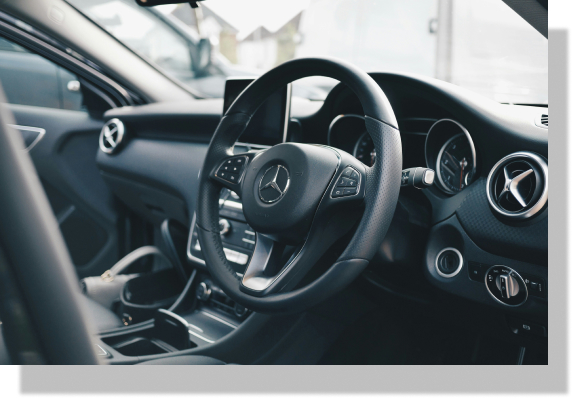
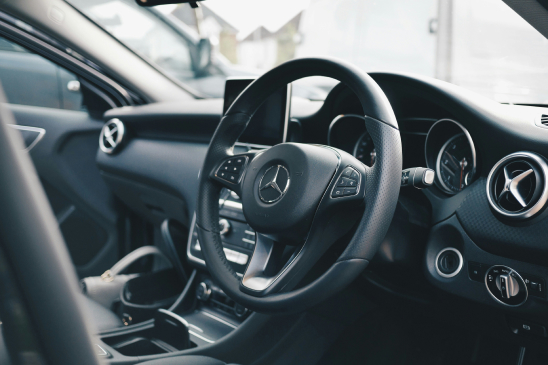
apresentation stylesheet

diff --git a/assets/style.css b/assets/style.css
@@ -203,6 +203,7 @@ a {
     font-size: 3.6rem;
     font-weight: 400;
     color: var(--alternative-color-7);
+    margin: 0 0 3.9rem 0;
 }
 
 .container-content-services {
@@ -250,6 +251,77 @@ a {
 
 .content-services p b {
     font-weight: 600;
+}
+
+/*Promotion section stylesheet*/
+
+.promotion-container {
+    display: grid;
+    grid-template-columns: 1fr 1fr;
+    grid-template-rows: repeat(3, auto);
+    padding: 9rem 11.5rem 6.6rem 11.5rem;
+    height: 66rem;
+    width: 100%;
+    background-color: var(--primary-color-1);
+}
+
+.promotion-container h1 {
+    font-family: var(--text-font);
+    font-size: 3.6rem;
+    font-weight: 400;
+    color: var(--primary-color-4);
+    position: relative;
+    grid-column: 1/2;
+    margin: 0 0 3.9rem 0;
+}
+
+.promotion-container h1::after {
+    content: '';
+    height: 0.3rem;
+    width: 2rem;
+    background: var(--alternative-gradient);
+    margin-left: 0.6rem;
+    position: absolute;
+    top: 4rem;
+}
+
+.promotion-container p {
+    max-height: 32.4rem;
+    max-width: 54rem;
+    font-family: var(--text-font);
+    font-size: 2.4rem;
+    font-weight: 400;
+    line-height: 1.5;
+    text-align: left;
+    color: var(--primary-color-9);
+    grid-column: 1/2;
+}
+
+.promotion-container button {
+    height: 6.2rem;
+    width: 30.5rem;
+    border-radius: 0.5rem;
+    border: none;
+    background: var(--alternative-gradient);
+    font-family: var(--alternative-font);
+    font-size: 3.2rem;
+    font-weight: 700;
+    text-align: center;
+    color: var(--alternative-color-7);
+    grid-column: 1/2;
+    cursor: pointer;
+}
+
+.promotion-container img {
+    grid-column: 2/3;
+    justify-self: center;
+    grid-row: 2/3;
+    max-height: 36.5rem;
+    max-width: 100%;
+    height: auto;
+    width: 54.8rem;
+    object-fit: cover;
+    box-shadow: 1.5rem 1.5rem 0.8rem #000;
 }
 
 

diff --git a/index.html b/index.html
@@ -60,11 +60,11 @@
             </div>
         </section>
 
-        <section>
+        <section class="promotion-container">
             <h1>PROMOÇÕES</h1>
             <p>Aproveite nossas ofertas e descontos especiais para economizar em sua próxima locação de veículo. De descontos por reserva antecipada a promoções sazonais, estamos sempre buscando maneiras de tornar sua viagem mais acessível e agradável. Não perca a chance de economizar - reserve agora e viaje com tranquilidade!</p>
             <button type="button">CONHECER AGORA</button>
-            <img src="" alt="" />
+            <img src="./assets/img/intern-mercedez-image.jpg" alt="interior of a mercedez" />
         </section>
 
         <section>
